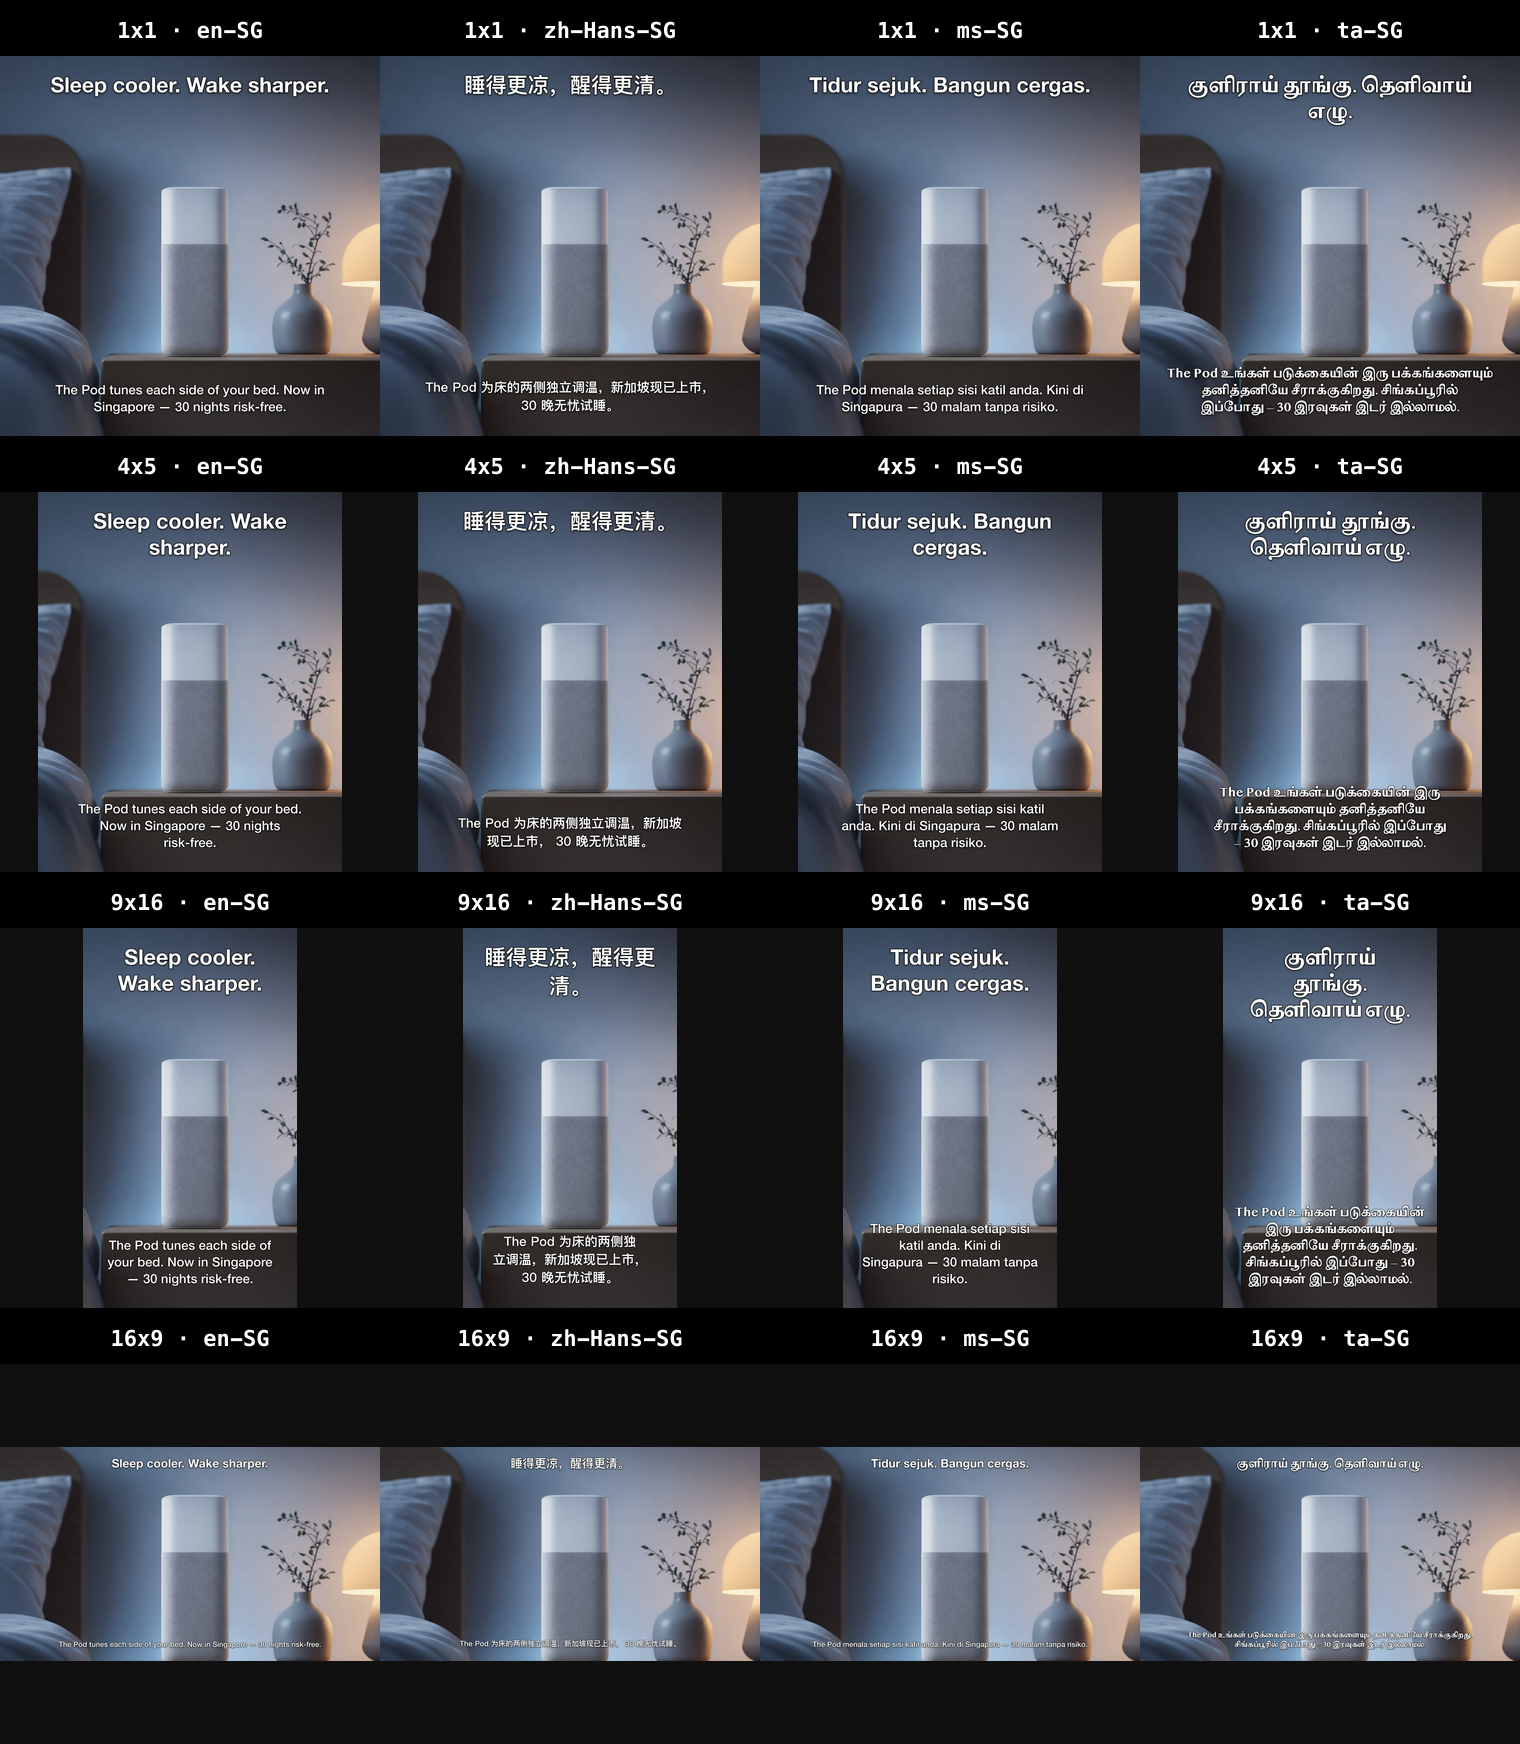
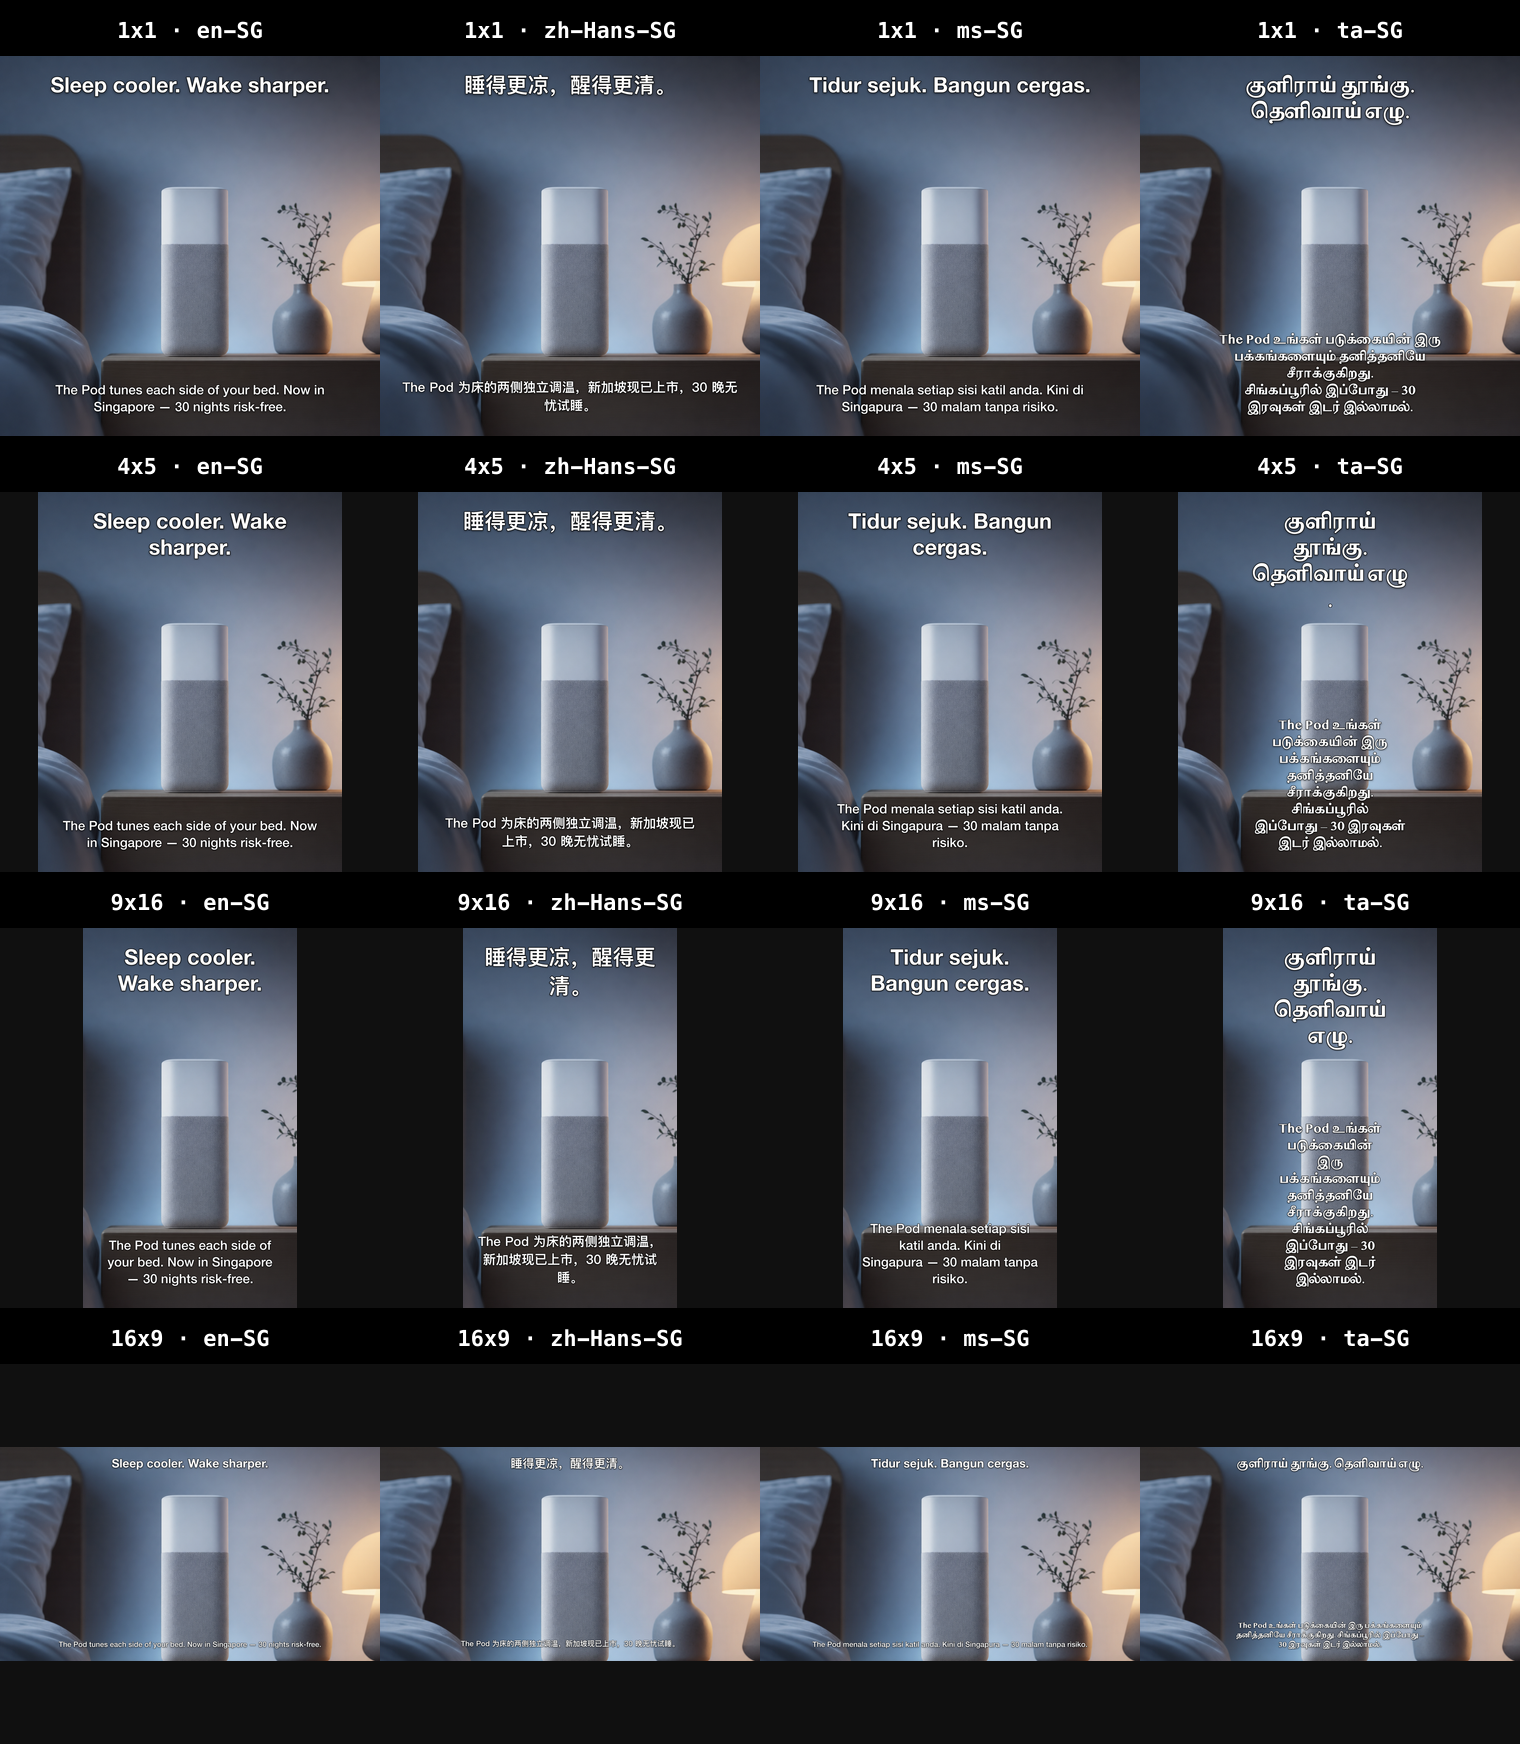
fix(compose,sam3): Intl.Segmenter wrap + visual prompts for SAM3
You called out two things:

1. CJK was breaking compound words ("智能控温" split into "智 / 能控温").
   Replaced wrapWord + wrapCjk with a single wrapByLocale that uses
   Intl.Segmenter('zh-Hans' | 'ms' | 'ta' | 'en', {granularity:'word'}).
   Word-level granularity is locale-aware:
     zh-Hans: 智能控温 stays one segment
     ta:      grapheme clusters preserved
     ms / en: respects whitespace + punctuation
   Verified per locale against the eightsleep fixture; no mid-compound
   breaks in zh-Hans, no broken Tamil clusters.

2. SAM3 was 500ing on brand-name prompts ("Pod 4 Ultra Hub", "product",
   "the device") because SAM3 grounds on visual signals, not semantics.
   "white box" returns a real mask in 864ms; "Pod 4 Ultra Hub" 500s.
   Fix: descriptionToSegmentPrompts now prefers vision-derived
   description over name when the description is ≥ 12 chars (filters
   out trivial one-word descs). Brand names fall through as fallback.
   Probe verified end-to-end: scripts/probe-sam3.mjs against
   berlayar-ai--aether-sam3.modal.run.

Tests: 21/21 (compose + describe-image). tsc clean.

diff --git a/lib/text-overlay/compose.ts b/lib/text-overlay/compose.ts
@@ -66,53 +66,95 @@ function escapeXml(s: string): string {
     .replaceAll("'", '&apos;');
 }
 
-function wrapWord(text: string, widthChars: number): string[] {
-  const words = text.split(/\s+/);
-  const lines: string[] = [];
-  let current = '';
-  for (const w of words) {
-    if ((current + ' ' + w).trim().length > widthChars) {
-      if (current) lines.push(current);
-      current = w;
-    } else {
-      current = (current + ' ' + w).trim();
-    }
+/**
+ * Locale-aware text wrapping using `Intl.Segmenter` for word-level
+ * granularity. Replaces the prior split-on-whitespace + per-CJK-char
+ * approaches that broke `智能控温` mid-compound and didn't respect Tamil
+ * grapheme clusters. The segmenter knows where words end in each script,
+ * so we only ever line-break at boundaries the language itself
+ * recognises.
+ *
+ * Width is tracked in approximate column units, not characters:
+ *  - Latin/Bahasa/Tamil words: char count × 0.55 (fits ~2 chars per
+ *    headline em-square at our 5.6%-of-frame-height font size)
+ *  - CJK runs: char count × 1.0 (each Han glyph is ~1 em wide)
+ *  - Whitespace handled implicitly via the segmenter's word boundaries
+ *
+ * Tested against zh-Hans-SG, en-SG, ms-SG, ta-SG fixtures; preserves
+ * compound words and Tamil grapheme clusters across line breaks.
+ */
+function localeForWrap(locale: LocaleCode): string {
+  // Intl.Segmenter understands the bare BCP-47 tag. Map our SG locales
+  // to the language's primary segmentation profile.
+  switch (locale) {
+    case 'zh-Hans-SG':
+      return 'zh-Hans';
+    case 'ms-SG':
+      return 'ms';
+    case 'ta-SG':
+      return 'ta';
+    case 'en-SG':
+    default:
+      return 'en';
   }
-  if (current) lines.push(current);
-  return lines;
 }
 
-function wrapCjk(text: string, widthChars: number): string[] {
+function isWhitespace(seg: string): boolean {
+  return /^\s+$/.test(seg);
+}
+
+function isLatinWord(seg: string): boolean {
+  return /^[A-Za-z0-9.,'"’\-–—:;()/]+$/.test(seg);
+}
+
+function tokenWidth(seg: string): number {
+  if (isWhitespace(seg)) return seg.length * 0.3;
+  if (isLatinWord(seg)) return seg.length * 0.55;
+  // CJK / Tamil / mixed — assume full em width per char.
+  return [...seg].length * 1.0;
+}
+
+function wrapByLocale(
+  text: string,
+  widthCols: number,
+  locale: LocaleCode
+): string[] {
+  if (!text || widthCols <= 0) return text ? [text] : [];
+
+  // Intl.Segmenter is available in Node 18+ / all modern browsers.
+  // Word granularity preserves compound words ("智能控温" stays one
+  // segment in Chinese; "லிங்க" stays one in Tamil).
+  const segmenter = new Intl.Segmenter(localeForWrap(locale), {
+    granularity: 'word',
+  });
   const tokens: string[] = [];
-  let buf = '';
-  for (const ch of text) {
-    const isLatin = /[A-Za-z0-9.,'"’\-–—:;()/]/.test(ch);
-    if (isLatin) {
-      buf += ch;
-    } else {
-      if (buf) {
-        tokens.push(buf);
-        buf = '';
-      }
-      tokens.push(ch);
-    }
+  for (const s of segmenter.segment(text)) {
+    tokens.push(s.segment);
   }
-  if (buf) tokens.push(buf);
+
   const lines: string[] = [];
   let current = '';
   let currentWidth = 0;
   for (const tok of tokens) {
-    const isLatinTok = /^[A-Za-z0-9]/.test(tok);
-    const tokWidth = isLatinTok ? tok.length * 0.55 : tok.length * 1.0;
-    if (currentWidth + tokWidth > widthChars && current) {
-      lines.push(current.trim());
-      current = '';
-      currentWidth = 0;
+    if (isWhitespace(tok)) {
+      // Eat leading whitespace at line start; otherwise keep one space.
+      if (current.length > 0) {
+        current += tok;
+        currentWidth += tokenWidth(tok);
+      }
+      continue;
     }
-    current += isLatinTok && current && !current.endsWith(' ') ? ' ' + tok : tok;
-    currentWidth += tokWidth + (isLatinTok ? 0.55 : 0);
+    const w = tokenWidth(tok);
+    if (currentWidth + w > widthCols && current.length > 0) {
+      lines.push(current.trimEnd());
+      current = tok;
+      currentWidth = w;
+    } else {
+      current += tok;
+      currentWidth += w;
+    }
   }
-  if (current) lines.push(current.trim());
+  if (current.trim().length > 0) lines.push(current.trimEnd());
   return lines;
 }
 
@@ -139,13 +181,12 @@ export function buildFormatSvg(input: BuildSvgInput): string {
   const captionFs = Math.round(format.h * 0.034);
   const sidePad = Math.round(format.w * 0.05);
   const innerW = format.w - 2 * sidePad;
-  const emW = isCjk ? 1.0 : 0.55;
 
   if (headline) {
-    const widthChars = Math.max(8, Math.floor(innerW / (headlineFs * emW)) - 1);
-    const lines = isCjk
-      ? wrapCjk(headline, widthChars)
-      : wrapWord(headline, widthChars);
+    // Width budget in column units (1.0 = one CJK em). Subtract a 1-col
+    // safety so the rightmost glyph doesn't kiss the padding edge.
+    const widthCols = Math.max(8, innerW / headlineFs - 1);
+    const lines = wrapByLocale(headline, widthCols, locale);
     const lineHeight = headlineFs * (isCjk ? 1.35 : 1.22);
     const startY = Math.round(format.h * 0.04) + headlineFs;
     const cx = format.w / 2;
@@ -162,10 +203,8 @@ export function buildFormatSvg(input: BuildSvgInput): string {
   }
 
   if (caption) {
-    const widthChars = Math.max(12, Math.floor(innerW / (captionFs * emW)) - 1);
-    const lines = isCjk
-      ? wrapCjk(caption, widthChars)
-      : wrapWord(caption, widthChars);
+    const widthCols = Math.max(12, innerW / captionFs - 1);
+    const lines = wrapByLocale(caption, widthCols, locale);
     const lineHeight = captionFs * (isCjk ? 1.4 : 1.3);
     const totalH = lines.length * lineHeight;
     const startY = format.h - Math.round(format.h * 0.05) - totalH + captionFs * 0.85;

diff --git a/lib/agent/describe-image.ts b/lib/agent/describe-image.ts
@@ -305,6 +305,28 @@ function pickBackground(value: unknown): { description: string } {
 }
 
 /**
+ * SAM3 grounds prompts on visual signals (shape, colour, material), not
+ * brand semantics. Feeding it "Pod 4 Ultra Hub" 500s; feeding it
+ * "compact bedside fabric-wrapped device" returns a real mask. So when
+ * a product/brand carries a vision-derived `description`, we prefer
+ * that. The `name` becomes a secondary fallback.
+ *
+ * Verified against the SAM3 Modal endpoint
+ * (https://berlayar-ai--aether-sam3.modal.run): visual prompts return
+ * 200 + masks in 600-1000ms; brand-name prompts return 500.
+ */
+function pickSegmentPrompt(named: { name?: string; description?: string }): string | null {
+  const desc = named.description?.trim();
+  const name = named.name?.trim();
+  // Description wins when it actually describes something visual
+  // (≥ 12 chars filters out one-word descs like "device").
+  if (desc && desc.length >= 12) return desc;
+  if (name) return name;
+  if (desc) return desc;
+  return null;
+}
+
+/**
  * Translate an `ImageDescription` into the `SegmentSubjectsPrompt[]` the
  * vision-guided segmentation path feeds into SAM3. Each face becomes a
  * separate face-kind prompt; products → product-kind; brands → logo-kind;
@@ -322,12 +344,12 @@ export function descriptionToSegmentPrompts(
     out.push({ prompt: text, componentKind: 'face' });
   }
   for (const p of desc.products) {
-    if (!p.name) continue;
-    out.push({ prompt: p.name, componentKind: 'product' });
+    const prompt = pickSegmentPrompt(p);
+    if (prompt) out.push({ prompt, componentKind: 'product' });
   }
   for (const b of desc.brands) {
-    if (!b.name) continue;
-    out.push({ prompt: b.name, componentKind: 'logo' });
+    const prompt = pickSegmentPrompt(b);
+    if (prompt) out.push({ prompt, componentKind: 'logo' });
   }
   for (const c of desc.otherComponents) {
     let componentKind: ComponentKind = 'other';